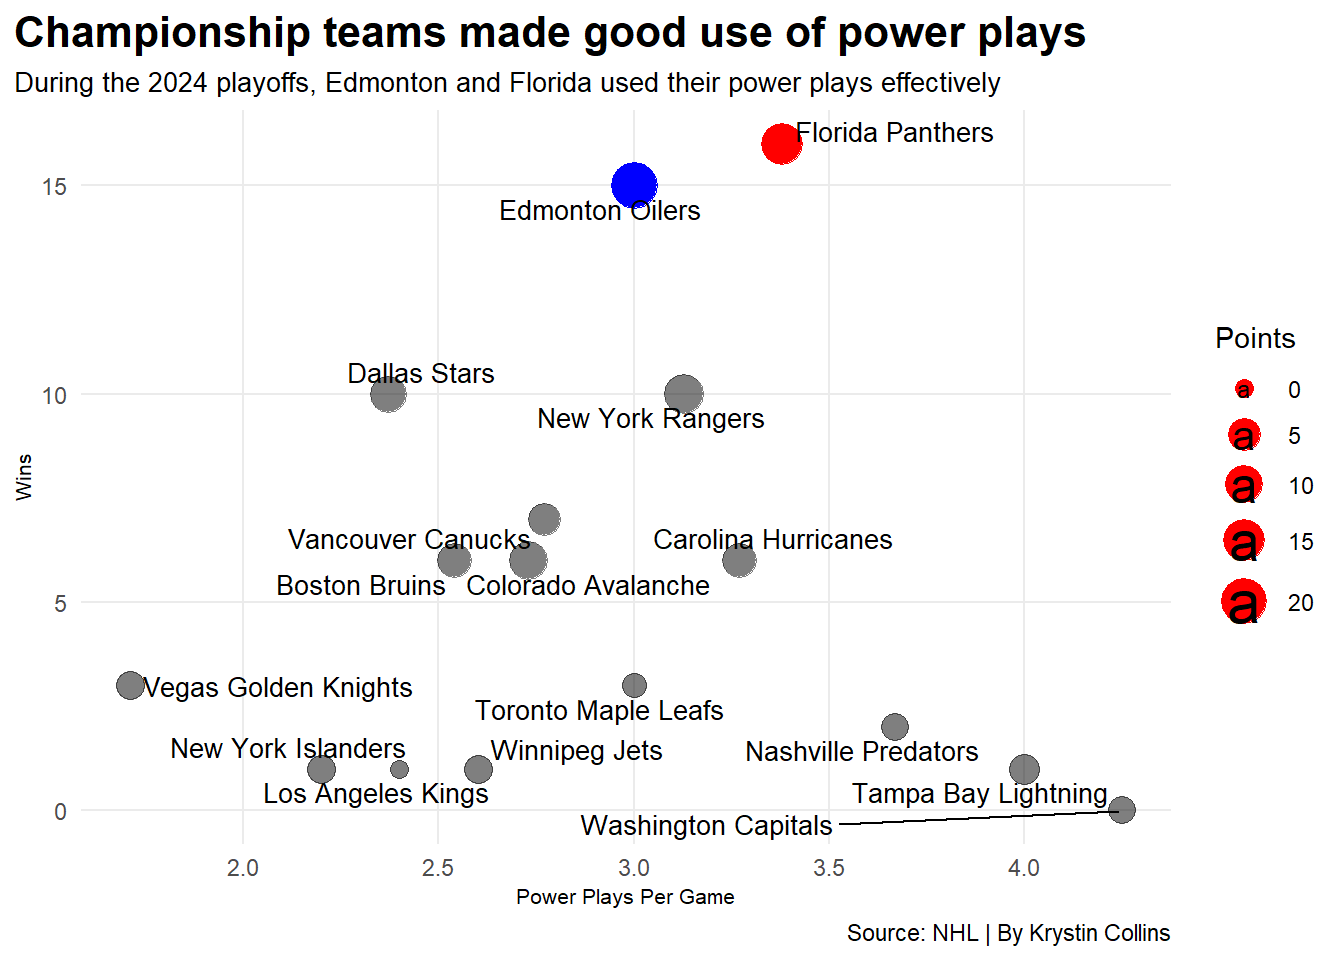
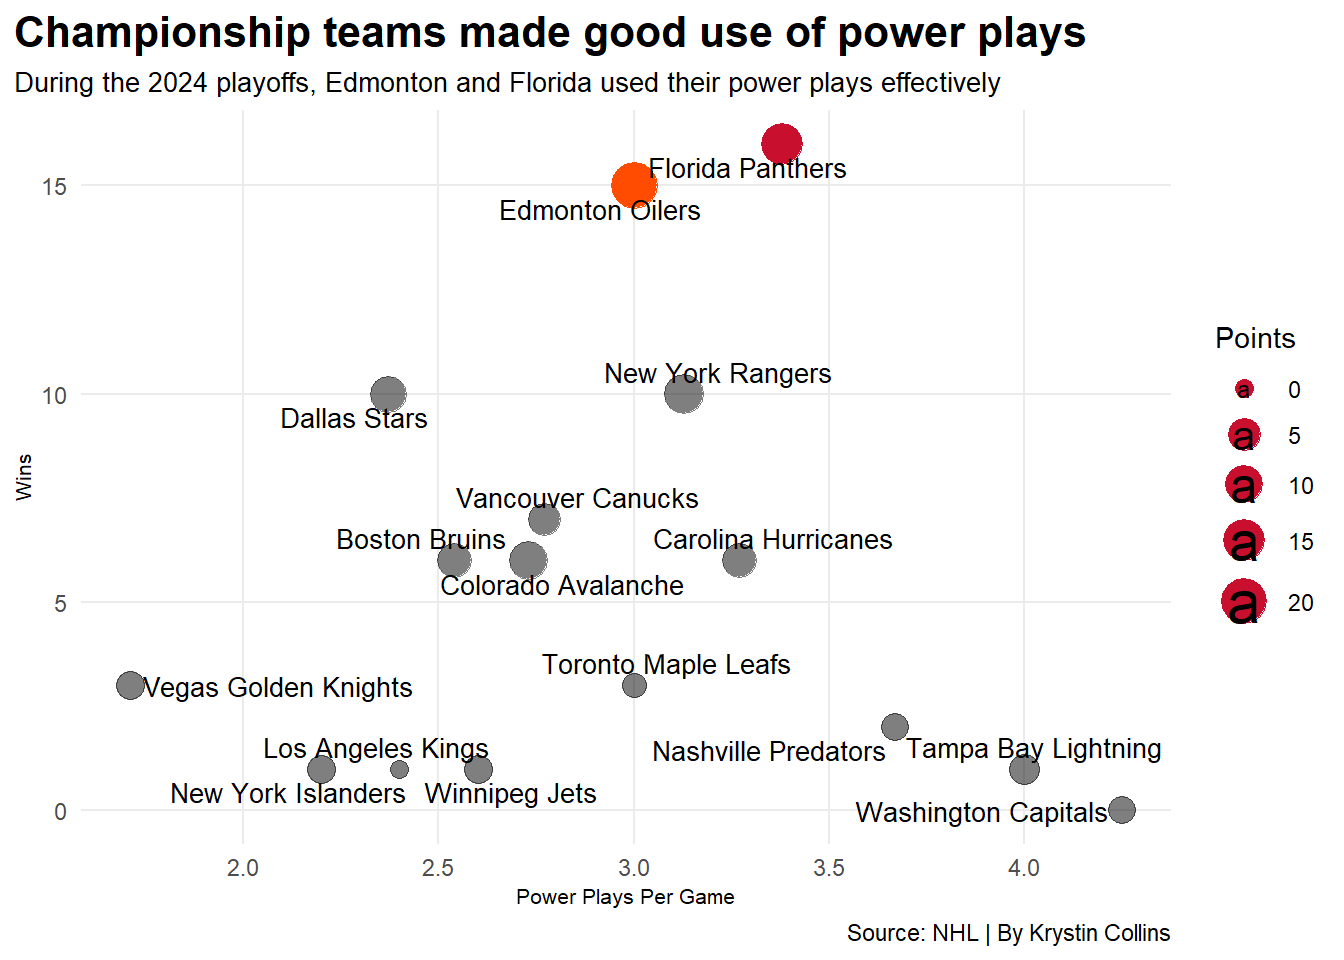
push

diff --git a/posts/nhl-playoff-power-plays/index.html b/posts/nhl-playoff-power-plays/index.html
@@ -230,14 +230,14 @@ pre > code.sourceCode > span > a:first-child::before { text-decoration: underlin
 <span id="cb1-29"><a href="#cb1-29" aria-hidden="true" tabindex="-1"></a>        <span class="at">x =</span> PP.Opp.GP, </span>
 <span id="cb1-30"><a href="#cb1-30" aria-hidden="true" tabindex="-1"></a>        <span class="at">y =</span> W, </span>
 <span id="cb1-31"><a href="#cb1-31" aria-hidden="true" tabindex="-1"></a>        <span class="at">size =</span> PP.GF),</span>
-<span id="cb1-32"><a href="#cb1-32" aria-hidden="true" tabindex="-1"></a>      <span class="at">color =</span> <span class="st">"blue"</span></span>
+<span id="cb1-32"><a href="#cb1-32" aria-hidden="true" tabindex="-1"></a>      <span class="at">color =</span> <span class="st">"#FF4C00"</span></span>
 <span id="cb1-33"><a href="#cb1-33" aria-hidden="true" tabindex="-1"></a>      ) <span class="sc">+</span></span>
 <span id="cb1-34"><a href="#cb1-34" aria-hidden="true" tabindex="-1"></a>  <span class="fu">geom_point</span>(<span class="at">data =</span> panthers, </span>
 <span id="cb1-35"><a href="#cb1-35" aria-hidden="true" tabindex="-1"></a>      <span class="fu">aes</span>(</span>
 <span id="cb1-36"><a href="#cb1-36" aria-hidden="true" tabindex="-1"></a>        <span class="at">x =</span> PP.Opp.GP, </span>
 <span id="cb1-37"><a href="#cb1-37" aria-hidden="true" tabindex="-1"></a>        <span class="at">y =</span> W, </span>
 <span id="cb1-38"><a href="#cb1-38" aria-hidden="true" tabindex="-1"></a>        <span class="at">size =</span> PP.GF),</span>
-<span id="cb1-39"><a href="#cb1-39" aria-hidden="true" tabindex="-1"></a>      <span class="at">color =</span> <span class="st">"red"</span></span>
+<span id="cb1-39"><a href="#cb1-39" aria-hidden="true" tabindex="-1"></a>      <span class="at">color =</span> <span class="st">"#C8102E"</span></span>
 <span id="cb1-40"><a href="#cb1-40" aria-hidden="true" tabindex="-1"></a>      ) <span class="sc">+</span> </span>
 <span id="cb1-41"><a href="#cb1-41" aria-hidden="true" tabindex="-1"></a>  <span class="fu">geom_text_repel</span>(</span>
 <span id="cb1-42"><a href="#cb1-42" aria-hidden="true" tabindex="-1"></a>    <span class="at">data =</span> playoffs, </span>

diff --git a/index.html b/index.html
@@ -210,7 +210,7 @@ window.Quarto = {
 
 <div class="quarto-listing quarto-listing-container-default" id="listing-listing">
 <div class="list quarto-listing-default">
-<div class="quarto-post image-right" data-index="0" data-categories="aG9ja2V5" data-listing-date-sort="1733637600000" data-listing-file-modified-sort="1733348694159" data-listing-date-modified-sort="NaN" data-listing-reading-time-sort="2" data-listing-word-count-sort="393">
+<div class="quarto-post image-right" data-index="0" data-categories="aG9ja2V5" data-listing-date-sort="1733637600000" data-listing-file-modified-sort="1733367826278" data-listing-date-modified-sort="NaN" data-listing-reading-time-sort="2" data-listing-word-count-sort="393">
 <div class="thumbnail">
 <p><a href="./posts/nhl-playoff-power-plays/index.html" class="no-external"></a></p><a href="./posts/nhl-playoff-power-plays/index.html" class="no-external">
 <p class="card-img-top"><img src="posts\nhl-playoff-power-plays\index_files\figure-html\unnamed-chunk-1-1.png"  class="thumbnail-image card-img"/></p>
